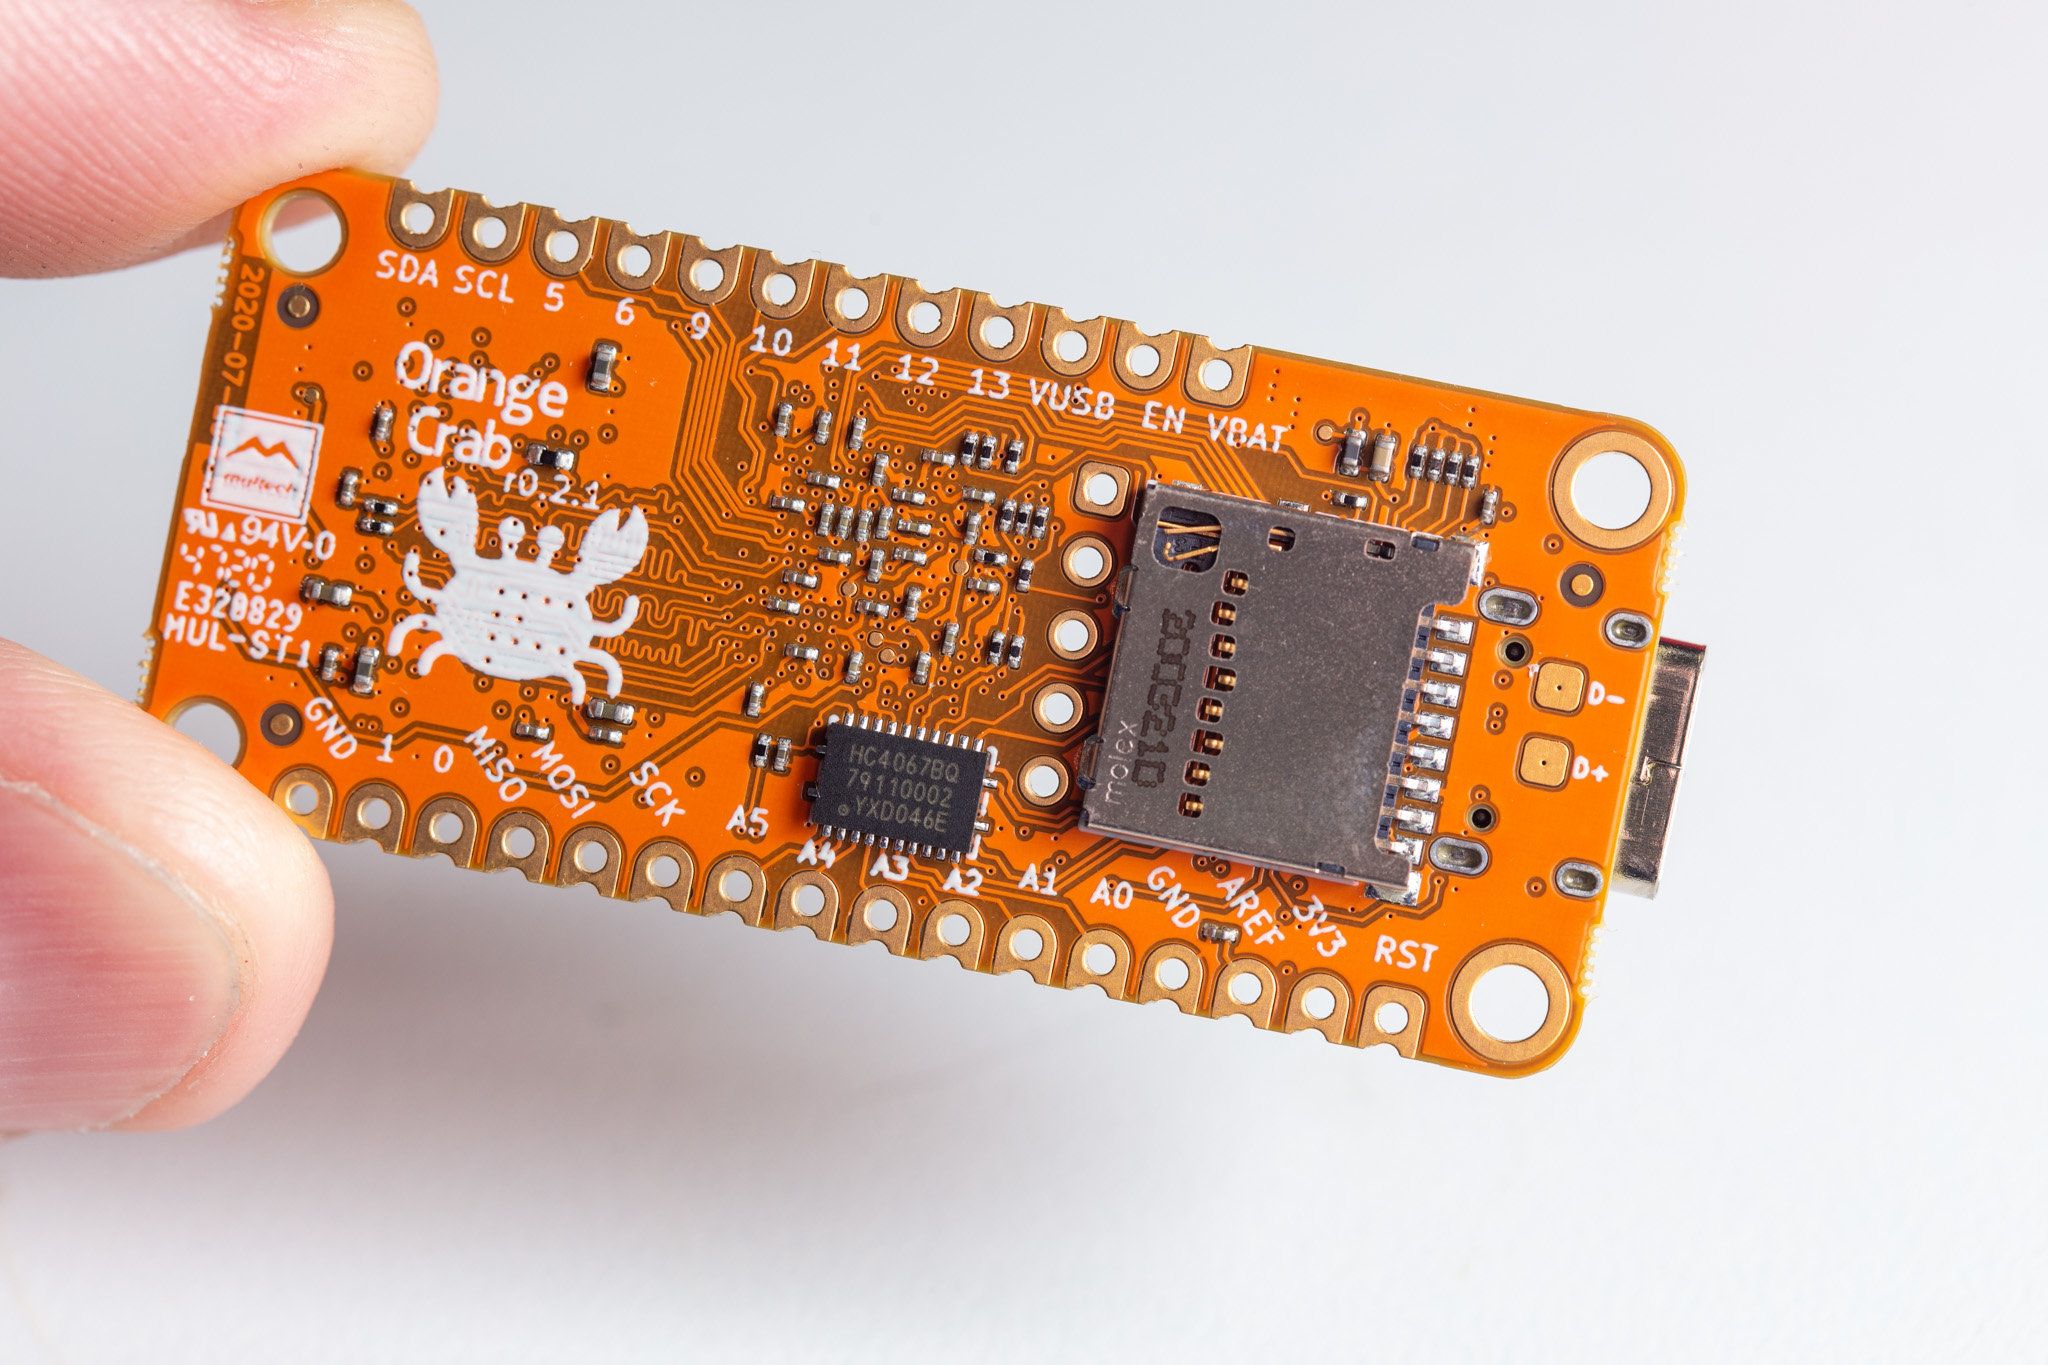
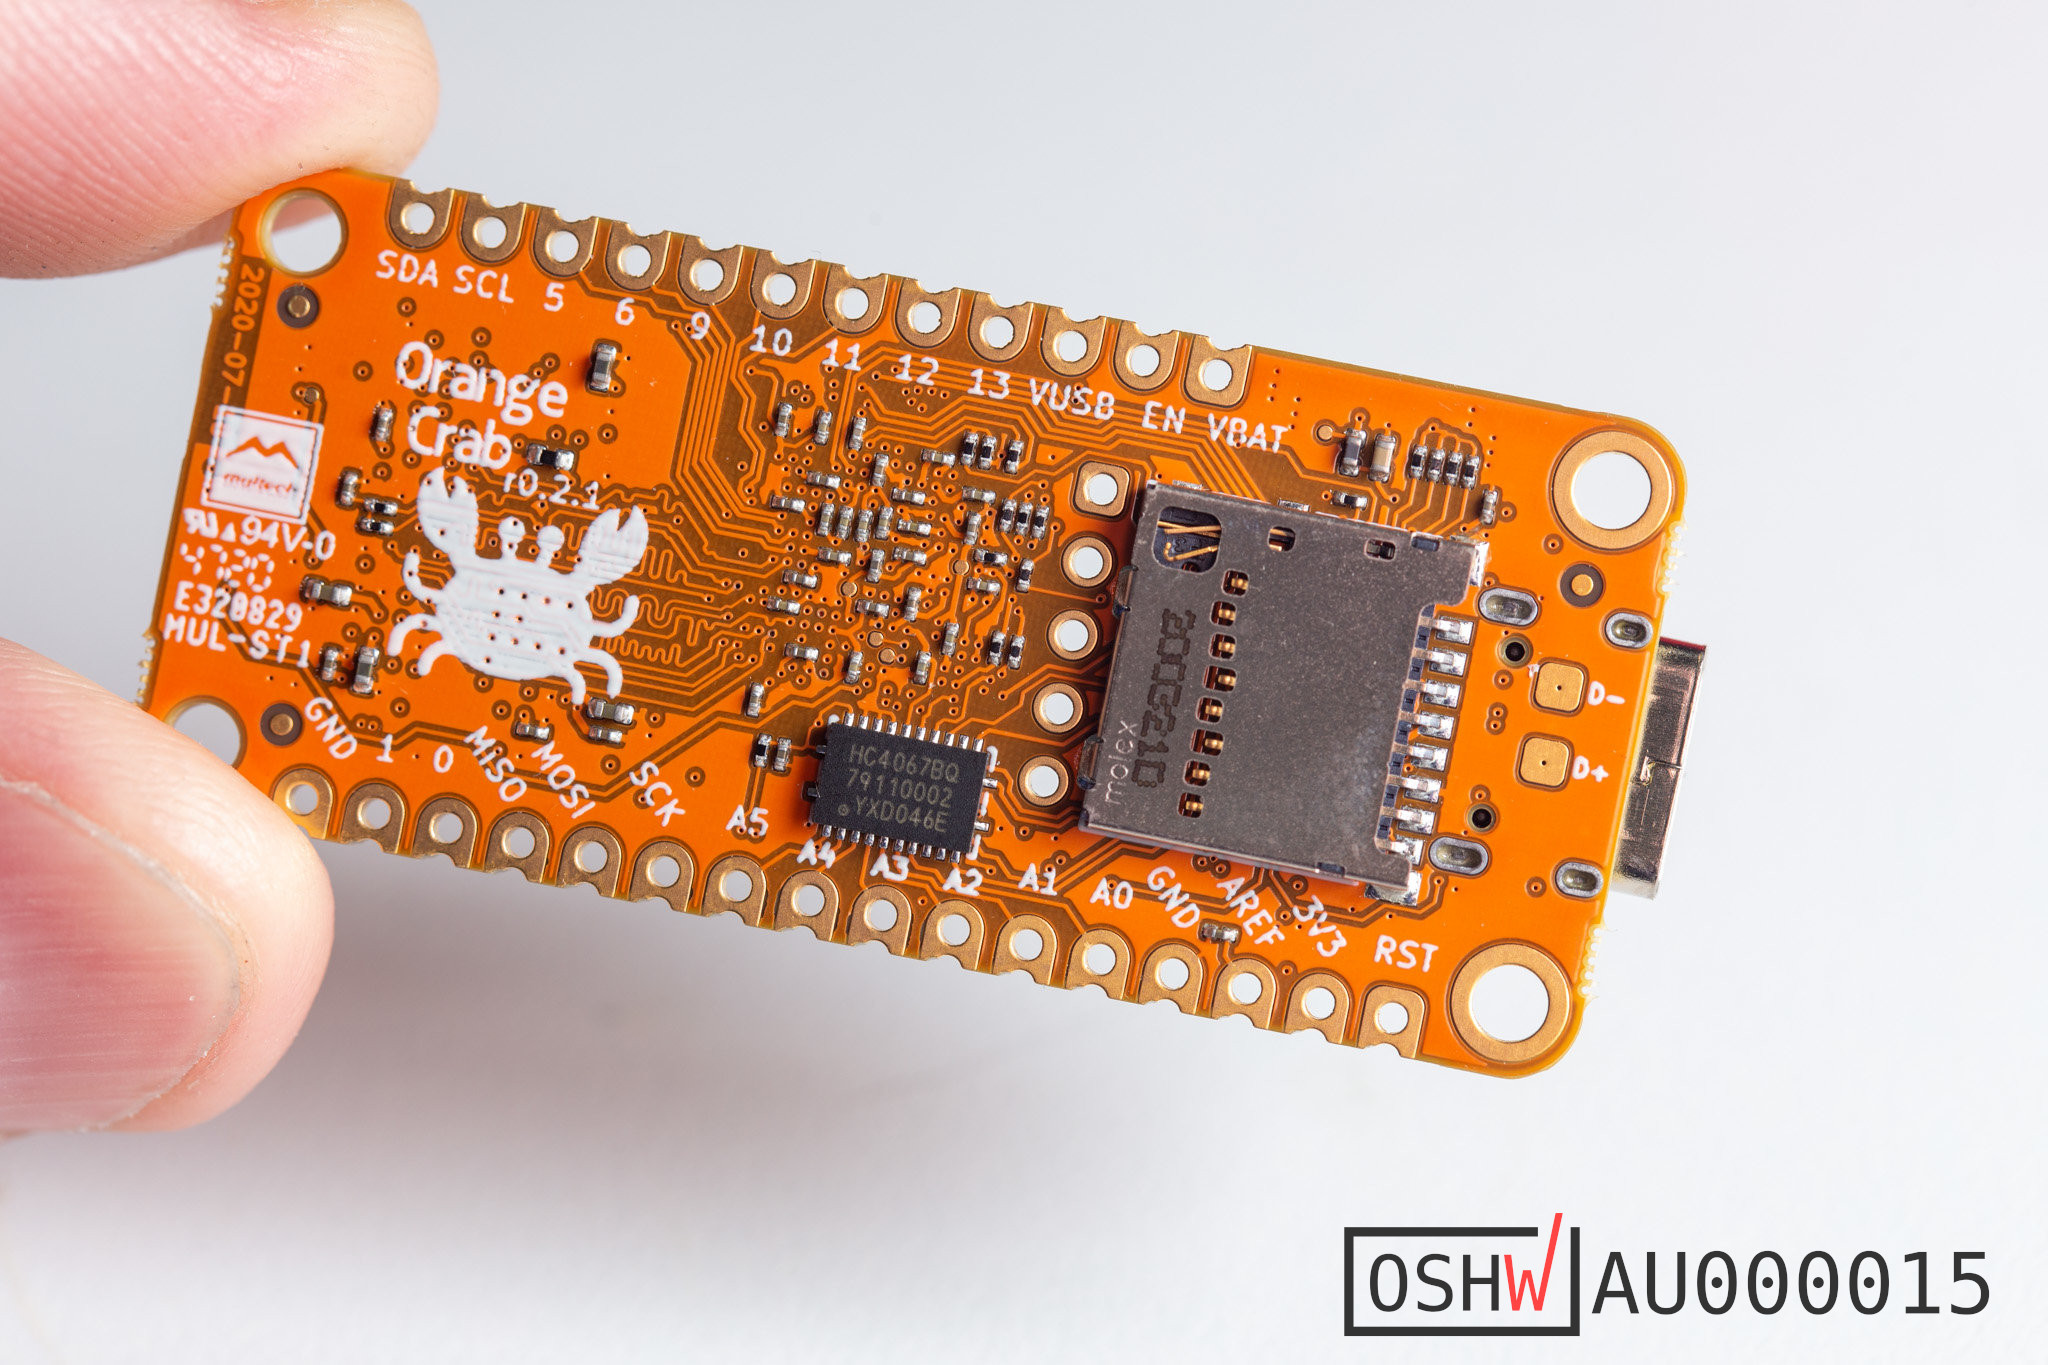
docs: Add OSHWA ID

Changed region(s): [[0.6562, 0.8923, 0.9688, 0.9846]]

diff --git a/hardware/orangecrab_r0.2.1/README.md b/hardware/orangecrab_r0.2.1/README.md
@@ -60,8 +60,8 @@ There aren't many OSHW ECP5 boards available. Given that this FPGA is fully supp
 
 ## Licence
 
- * Hardware in this repository is licenced under CERN OHL v1.2
- * Gateware/Software/Firmware in this repository is licenced under MIT unless otherise indicated
+ * Hardware in this repository is licensed under CERN OHL v1.2
+ * Gateware/Software/Firmware in this repository is licensed under MIT unless otherwise indicated
 
-## OSHW
-    TBD, this board may require recertification with OSHWA.
+ ## Open Source Hardware
+This board is an OSHWA approved design: [AU000015](https://certification.oshwa.org/au000015.html)

diff --git a/README.md b/README.md
@@ -79,4 +79,4 @@ We have an OrangeCrab group on the 1BitSquared Discord
  * Gateware/Software/Firmware in this repository is licensed under MIT unless otherwise indicated
 
  ## Open Source Hardware
-This board is an OSHWA approved design: [AU000006](https://certification.oshwa.org/au000006.html)
+This board is an OSHWA approved design: [AU000015](https://certification.oshwa.org/au000015.html)
